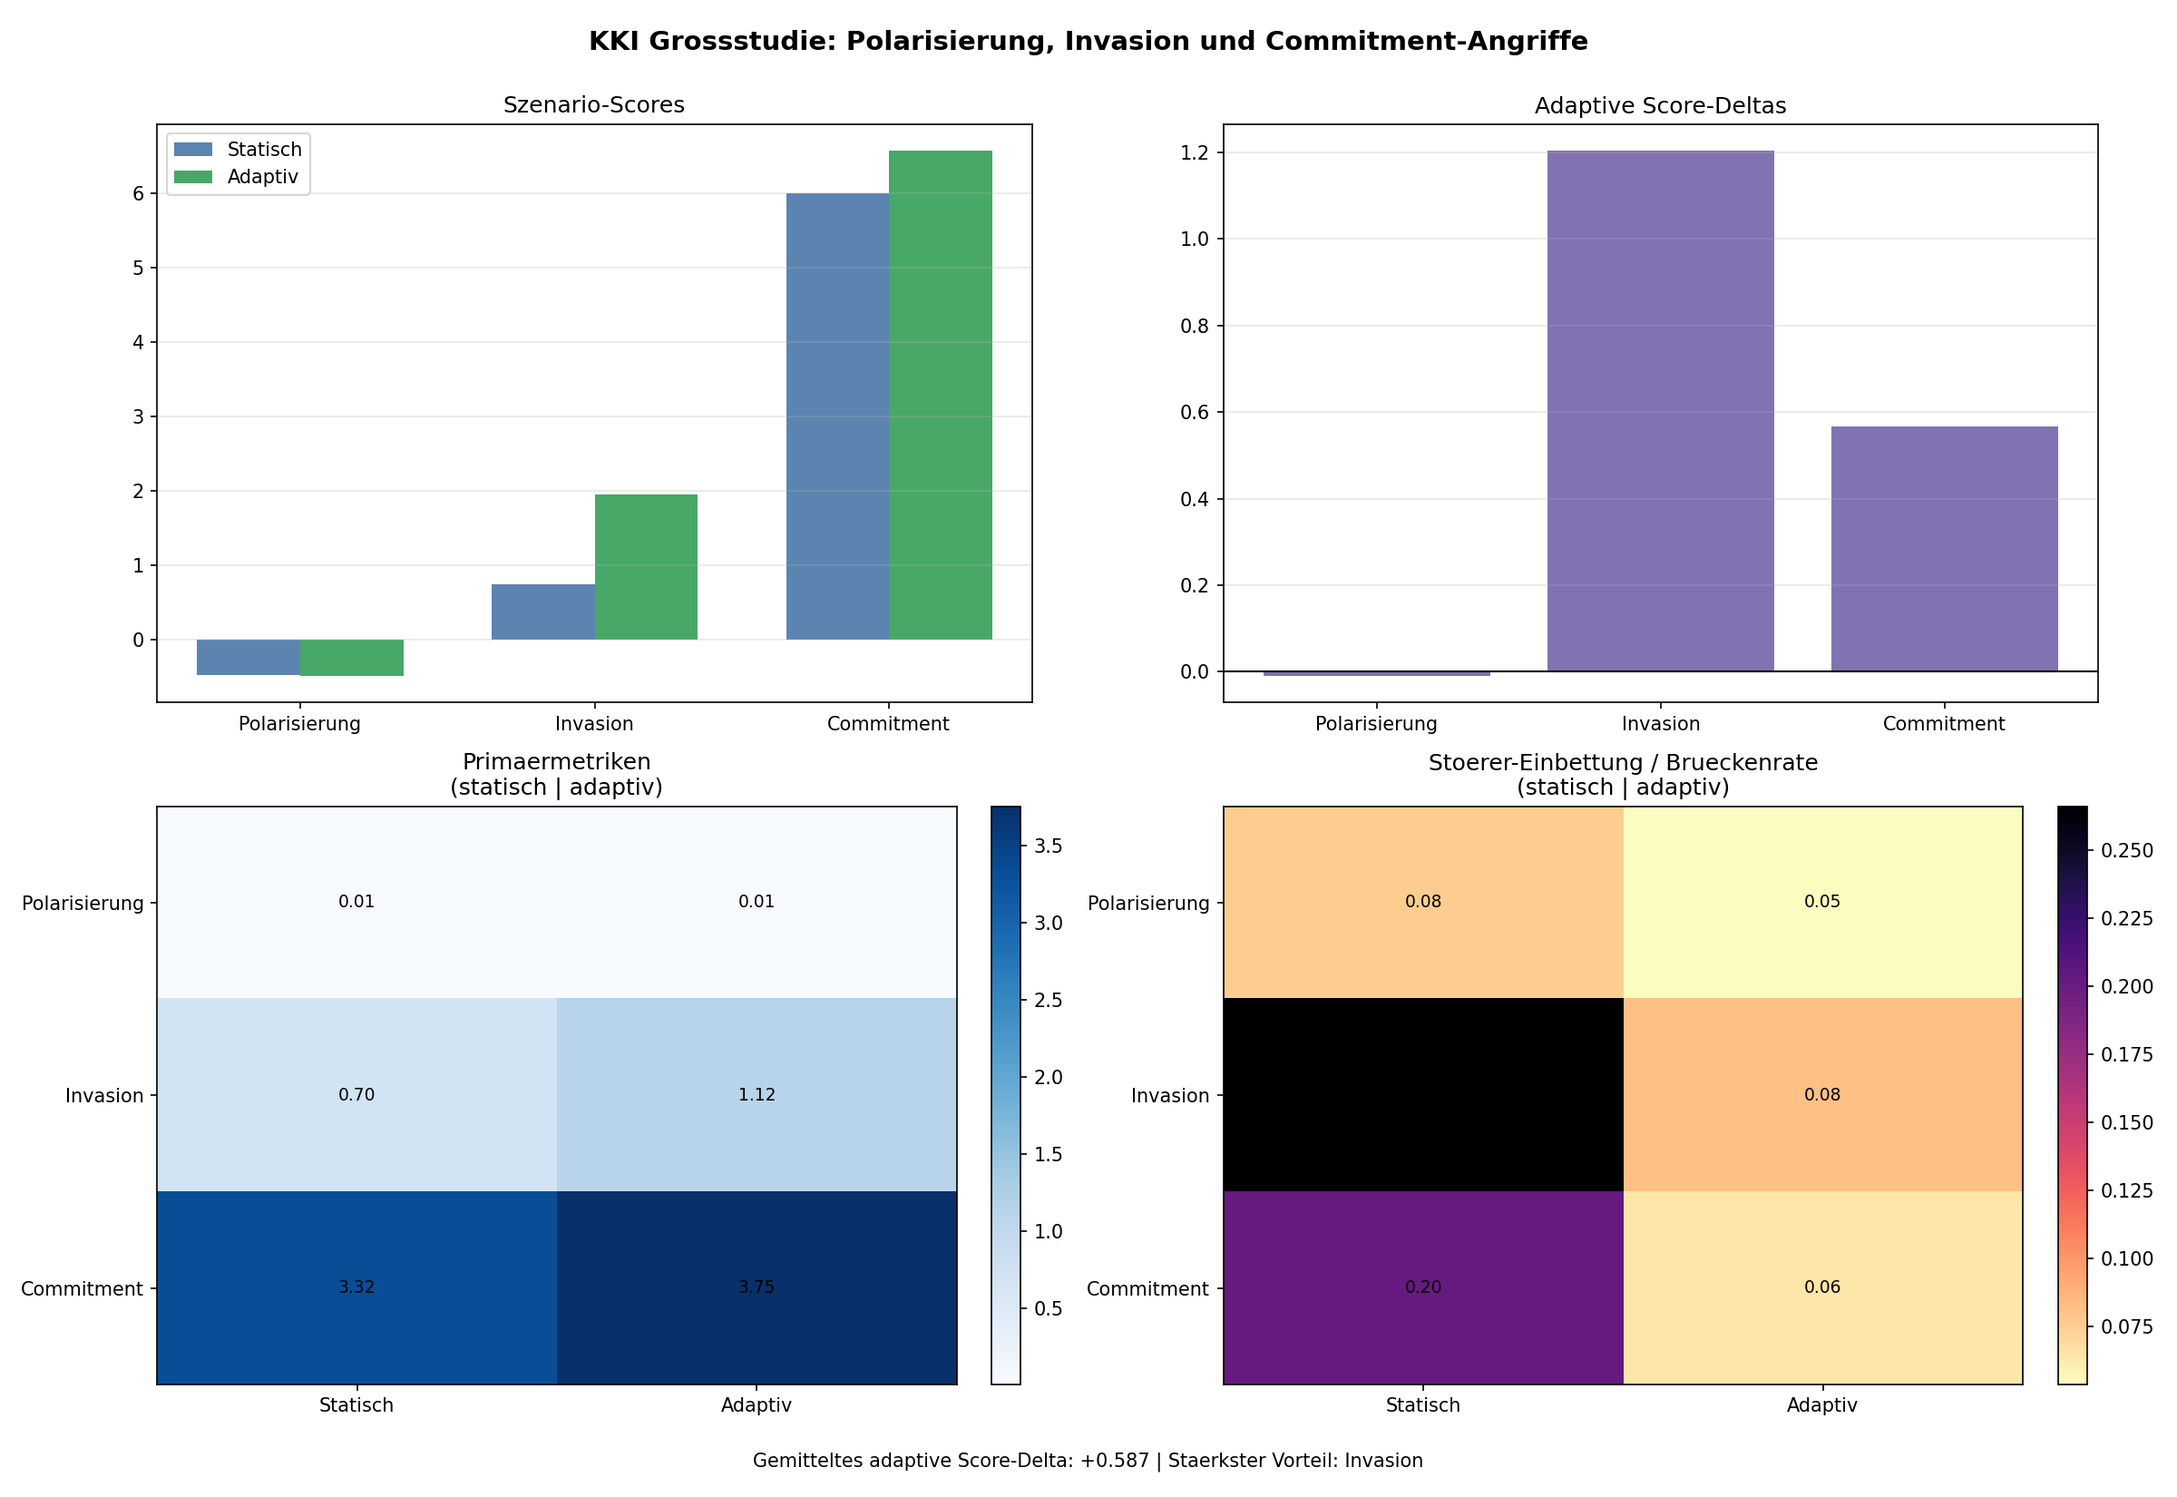
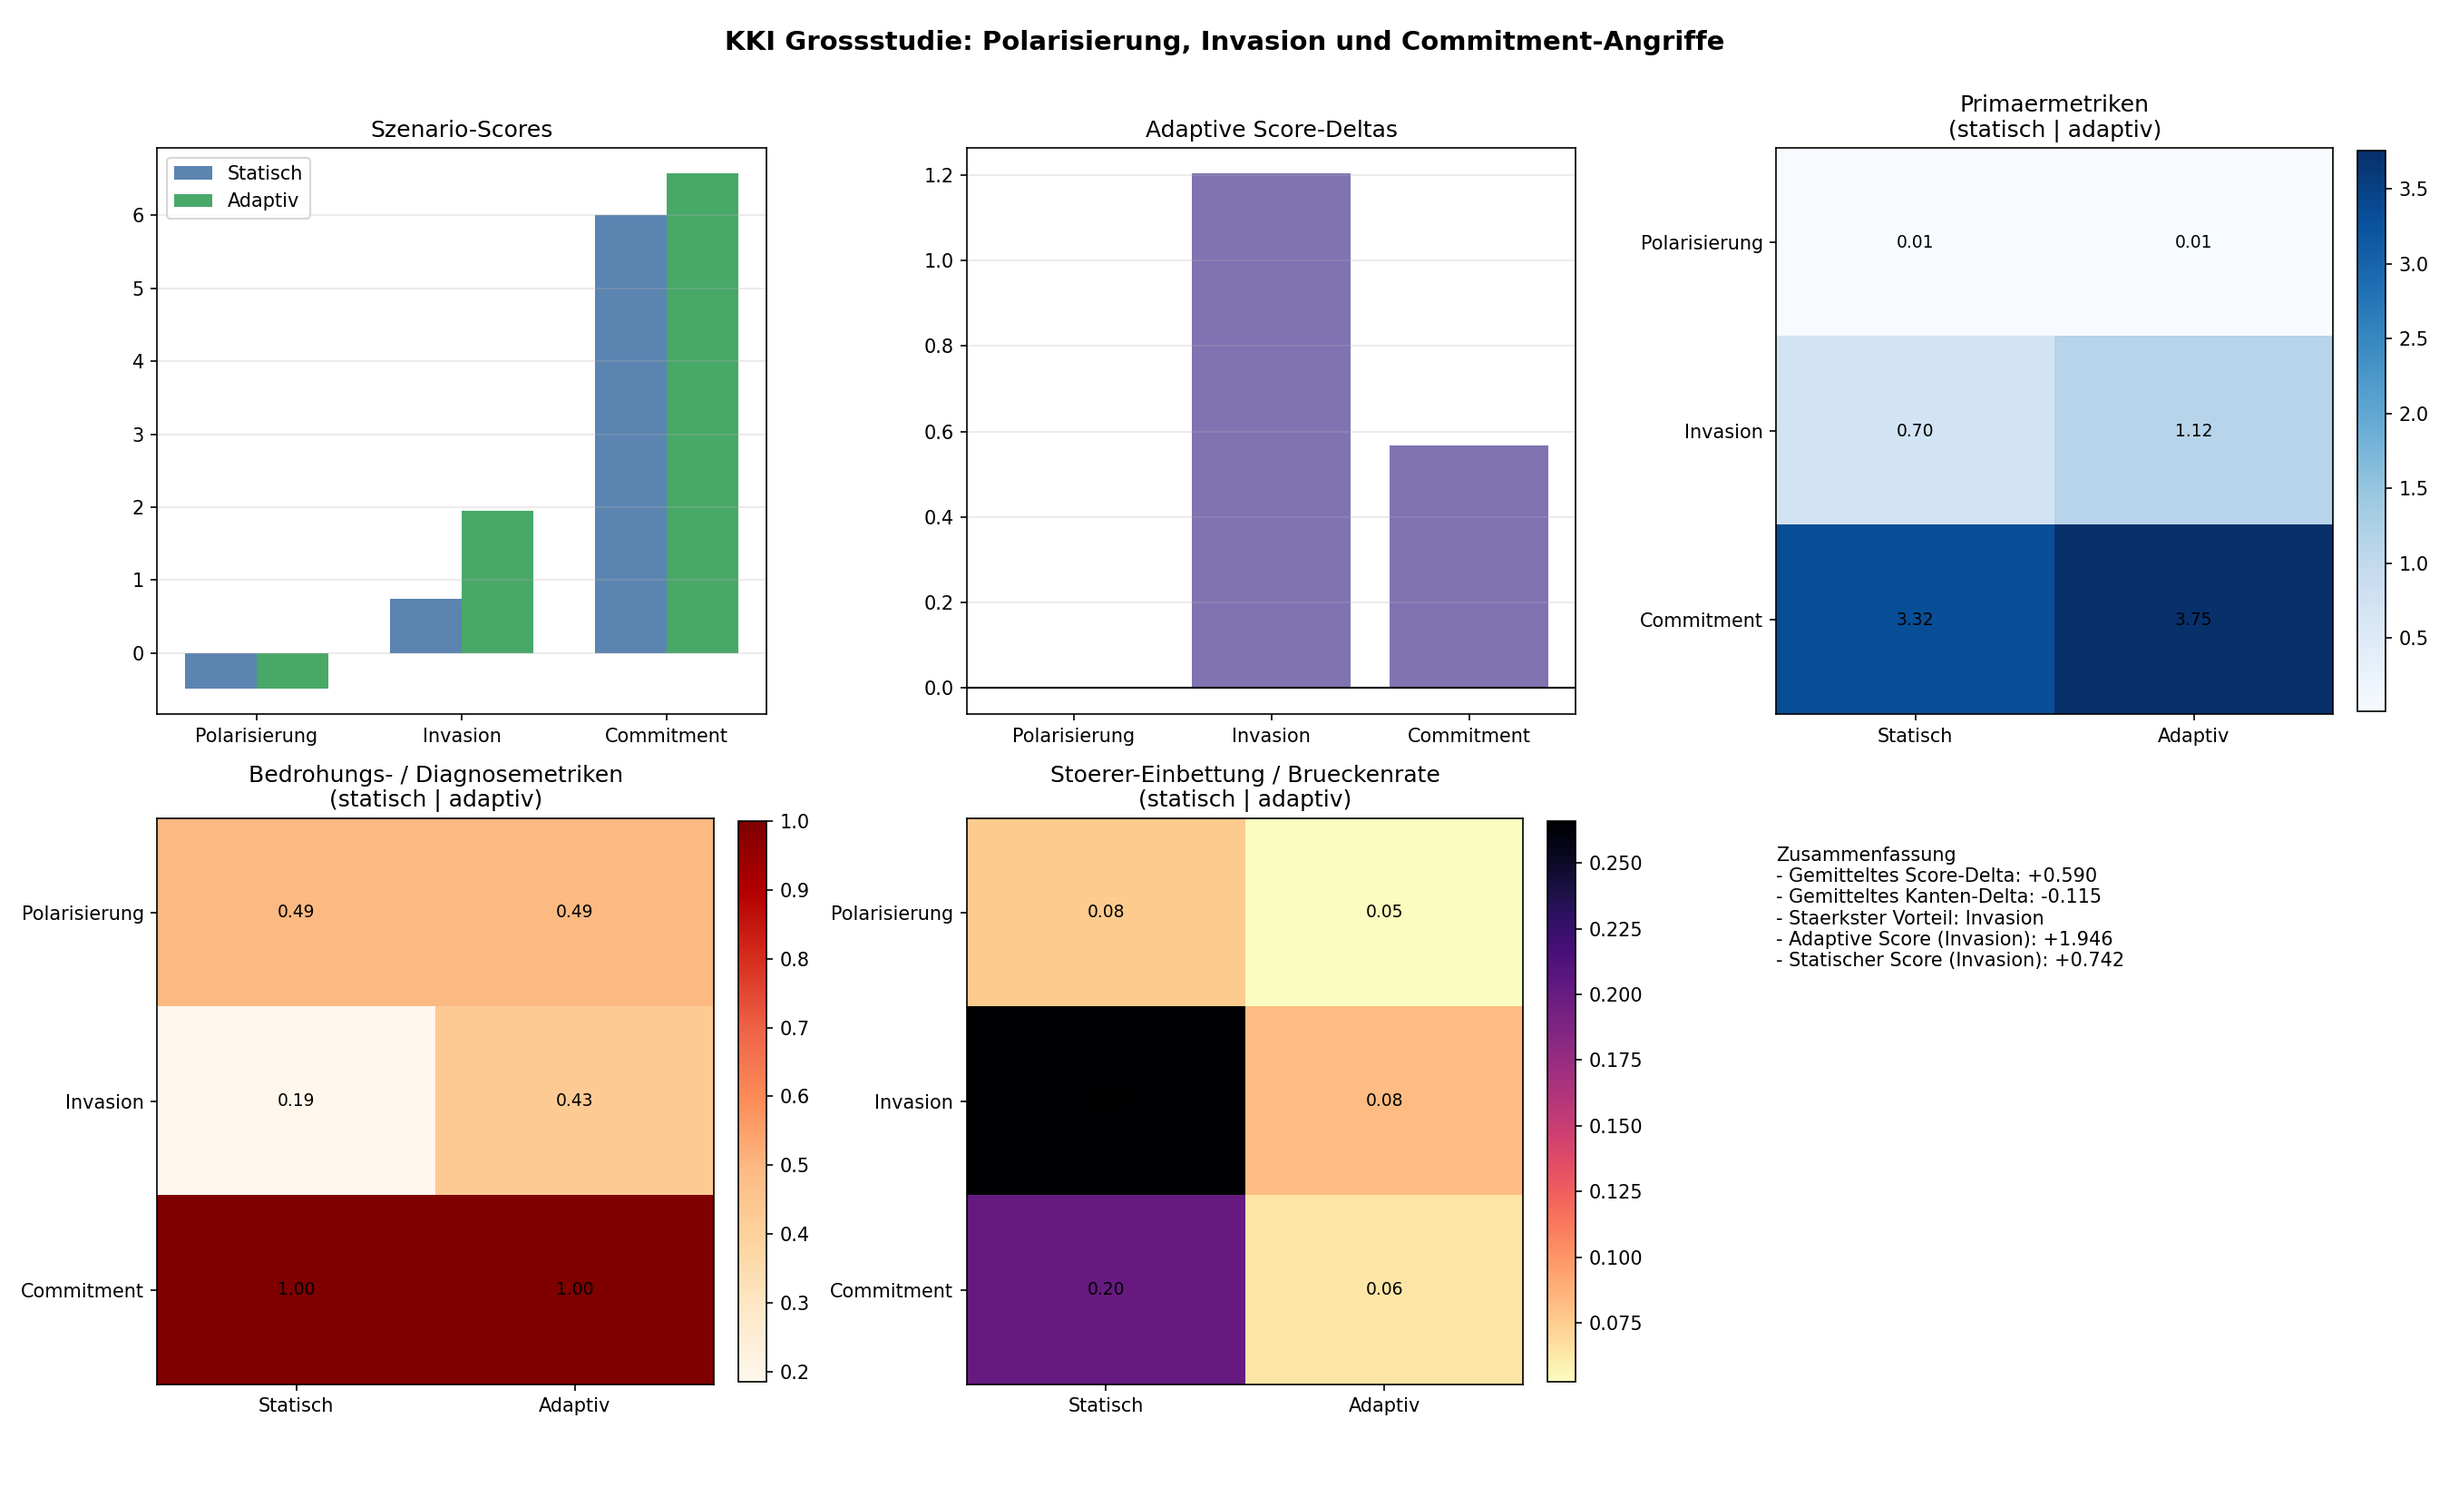
Enhance gross study visualization

diff --git a/schwarm_grossstudie.py b/schwarm_grossstudie.py
@@ -263,7 +263,7 @@ def main():
         dtype=float,
     )
 
-    fig, axes = plt.subplots(2, 2, figsize=(16, 11))
+    fig, axes = plt.subplots(2, 3, figsize=(18, 11))
     fig.suptitle(
         'KKI Grossstudie: Polarisierung, Invasion und Commitment-Angriffe',
         fontsize=14,
@@ -289,10 +289,16 @@ def main():
 
     heatmaps = [
         (
-            axes[1, 0],
+            axes[0, 2],
             primary_matrix,
             'Primaermetriken\n(statisch | adaptiv)',
             'Blues',
+        ),
+        (
+            axes[1, 0],
+            threat_matrix,
+            'Bedrohungs- / Diagnosemetriken\n(statisch | adaptiv)',
+            'OrRd',
         ),
         (
             axes[1, 1],
@@ -316,14 +322,19 @@ def main():
 
         fig.colorbar(image, ax=axis, fraction=0.046, pad=0.04)
 
-    fig.text(
-        0.5,
-        0.02,
+    axes[1, 2].axis('off')
+    axes[1, 2].text(
+        0.0,
+        0.95,
         (
-            f"Gemitteltes adaptive Score-Delta: {combined_delta:+.3f} | "
-            f"Staerkster Vorteil: {best_scenario}"
+            "Zusammenfassung\n"
+            f"- Gemitteltes Score-Delta: {combined_delta:+.3f}\n"
+            f"- Gemitteltes Kanten-Delta: {combined_edge_delta:+.3f}\n"
+            f"- Staerkster Vorteil: {best_scenario}\n"
+            f"- Adaptive Score ({best_scenario}): {aggregated[best_scenario]['adaptive_score']:+.3f}\n"
+            f"- Statischer Score ({best_scenario}): {aggregated[best_scenario]['static_score']:+.3f}"
         ),
-        ha='center',
+        va='top',
         fontsize=10,
     )
     plt.tight_layout(rect=(0, 0.04, 1, 0.98))
